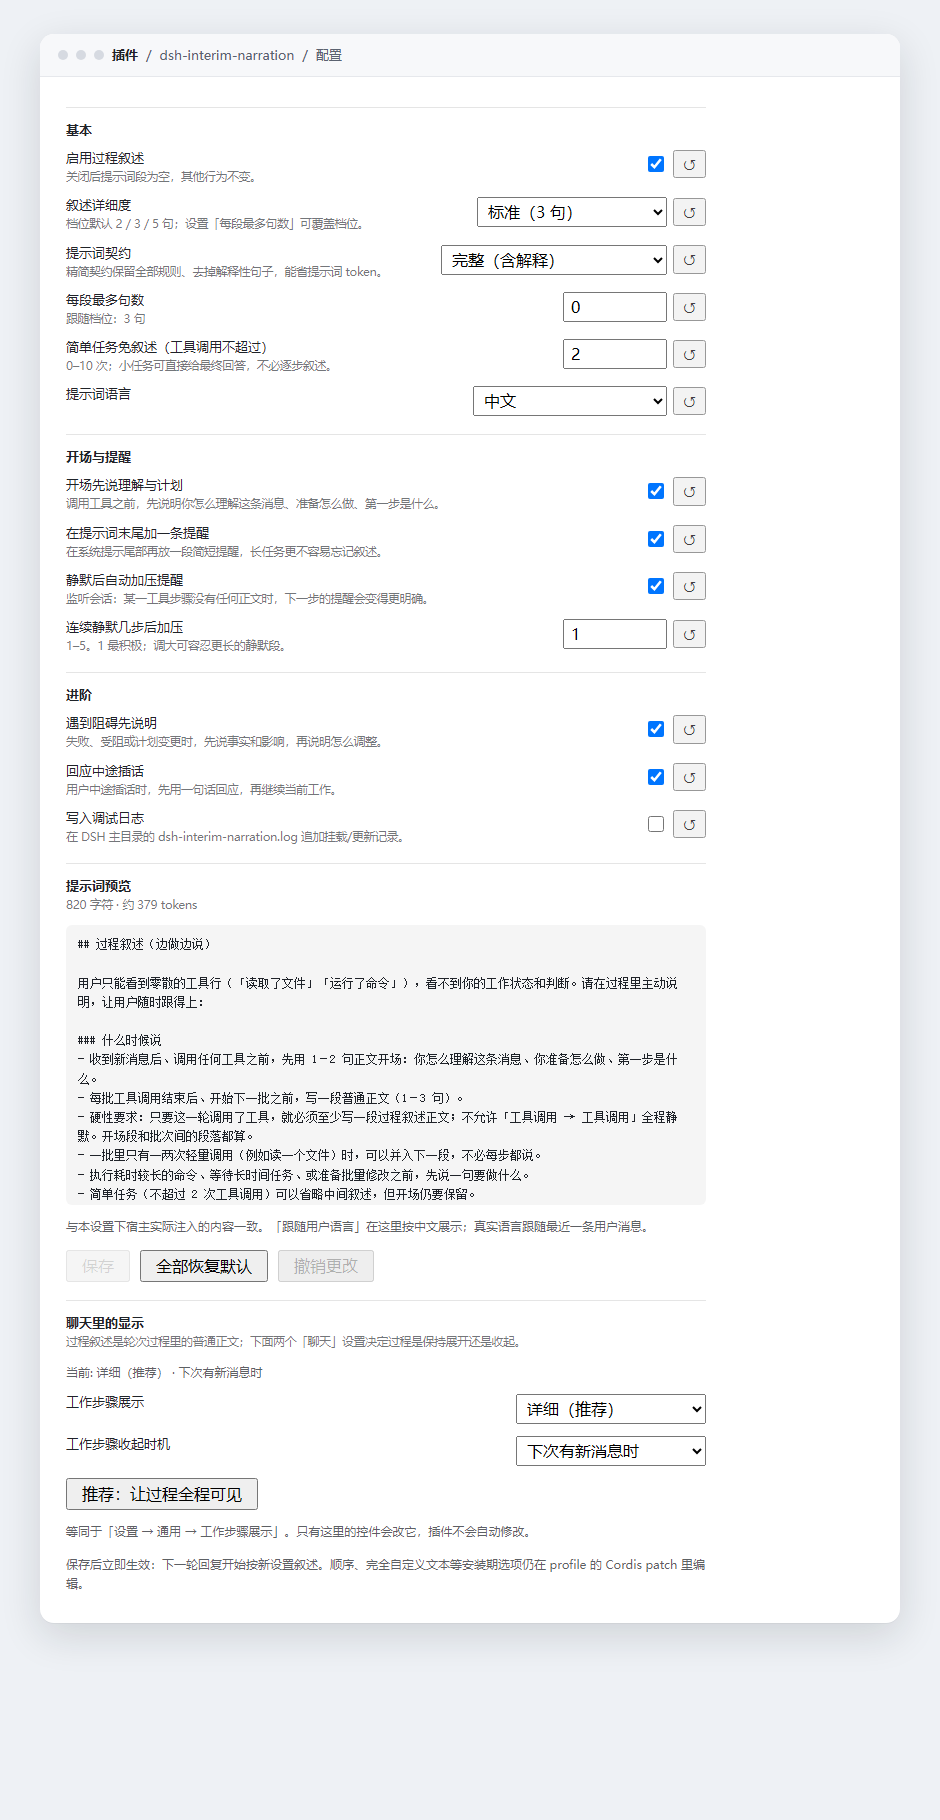
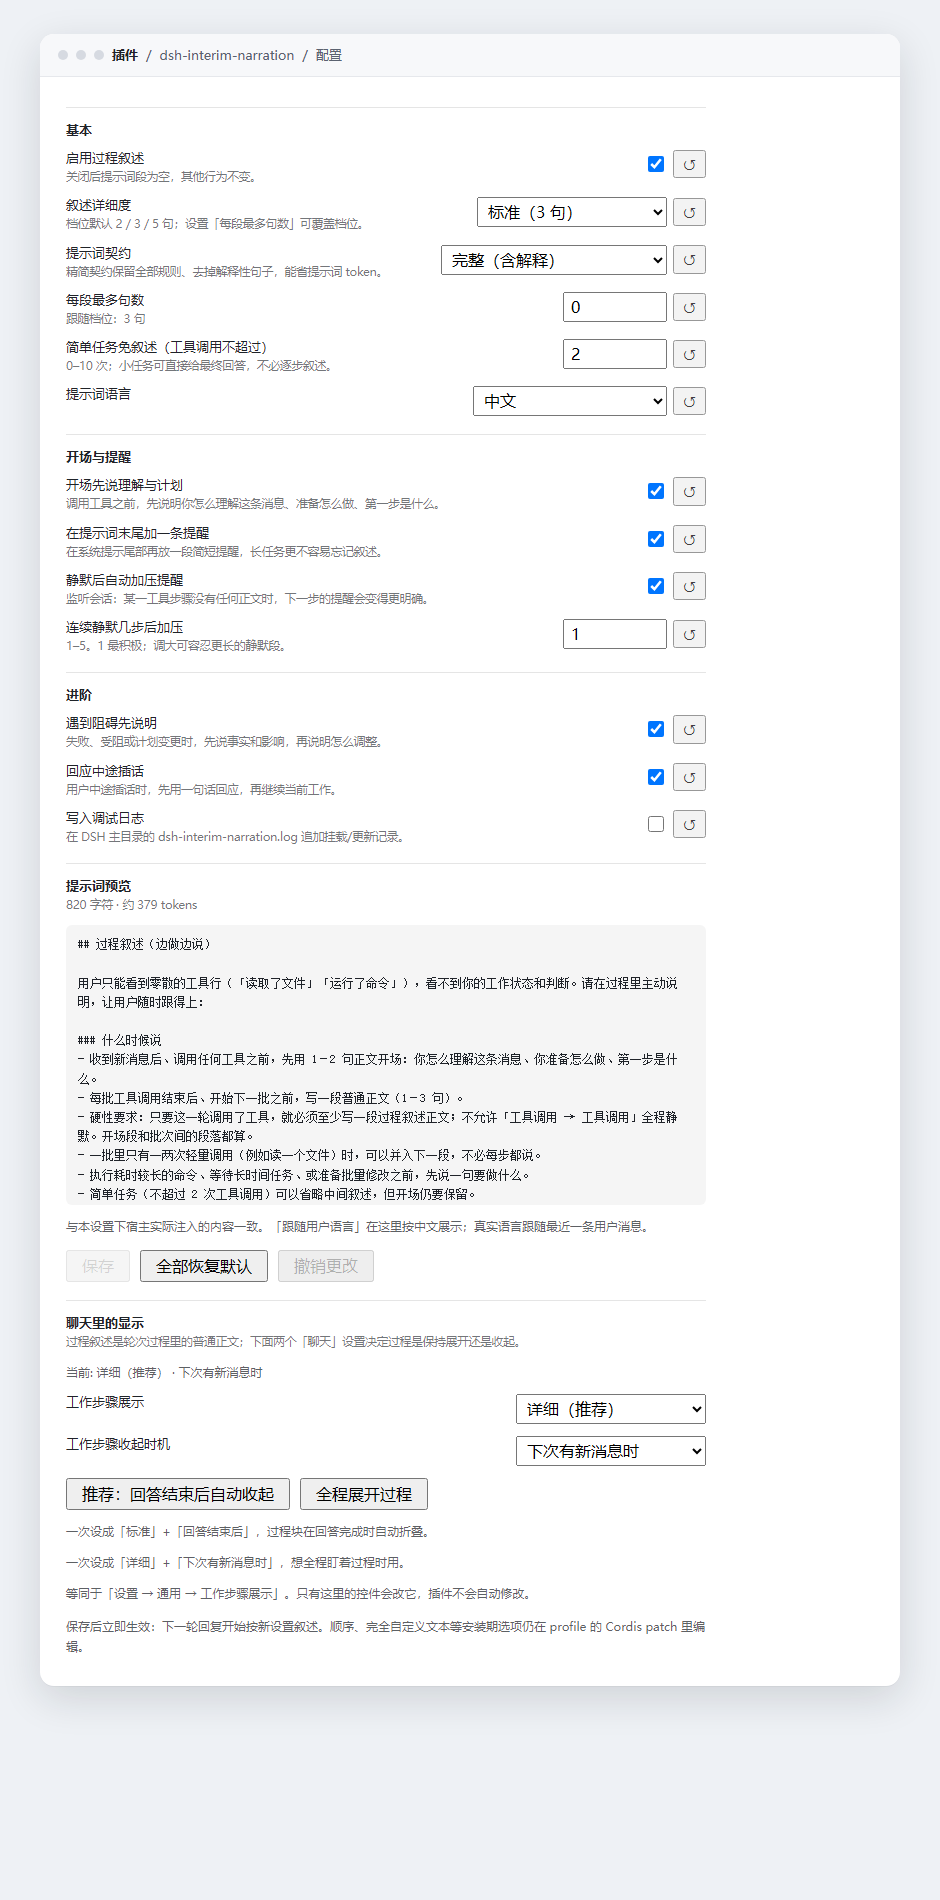
v0.9.1: two display presets, fold after the answer by default

diff --git a/lib/client.js b/lib/client.js
@@ -408,8 +408,10 @@ ${opening} Between tool-call batches, add 1–2 sentences about what just finish
       collapseTiming: 'Collapse work steps',
       collapseCompletion: 'After the answer finishes',
       collapseNextInput: 'On the next message',
-      presetVisible: 'Recommended: keep the process visible',
-      presetVisibleHint: 'Sets "Detailed" + "On the next message", the combination the narration is designed for.',
+      presetCollapse: 'Recommended: fold after the answer',
+      presetCollapseHint: 'Sets "Standard" + "After the answer finishes", so the process folds itself when the reply ends.',
+      presetExpand: 'Keep the process visible',
+      presetExpandHint: 'Sets "Detailed" + "On the next message", when you want to watch the whole process.',
       visibilitySaved: 'Display updated',
       visibilityFailed: 'The display setting was not accepted',
       visibilityUnavailable: 'The chat display settings are unavailable in this build.',
@@ -494,8 +496,10 @@ ${opening} Between tool-call batches, add 1–2 sentences about what just finish
       collapseTiming: '工作步骤收起时机',
       collapseCompletion: '回答结束后',
       collapseNextInput: '下次有新消息时',
-      presetVisible: '推荐：让过程全程可见',
-      presetVisibleHint: '一次设成「详细」+「下次有新消息时」，这是过程叙述最合适的组合。',
+      presetCollapse: '推荐：回答结束后自动收起',
+      presetCollapseHint: '一次设成「标准」+「回答结束后」，过程块在回答完成时自动折叠。',
+      presetExpand: '全程展开过程',
+      presetExpandHint: '一次设成「详细」+「下次有新消息时」，想全程盯着过程时用。',
       visibilitySaved: '显示设置已更新',
       visibilityFailed: '显示设置没有被接受',
       visibilityUnavailable: '当前版本读不到聊天显示设置。',
@@ -859,11 +863,15 @@ ${opening} Between tool-call batches, add 1–2 sentences about what just finish
         commitChat([{ op: 'set', path: [key], value }])
       }
 
-      const applyVisiblePreset = () =>
+      /** One button per display combination: folded after the answer by default. */
+      const applyDisplayPreset = (transcriptView, collapseTiming) =>
         commitChat([
-          { op: 'set', path: ['transcriptView'], value: 'detailed' },
-          { op: 'set', path: ['collapseTiming'], value: 'next-input' },
+          { op: 'set', path: ['transcriptView'], value: transcriptView },
+          { op: 'set', path: ['collapseTiming'], value: collapseTiming },
         ])
+
+      const applyCollapsePreset = () => applyDisplayPreset('standard', 'completion')
+      const applyExpandPreset = () => applyDisplayPreset('detailed', 'next-input')
 
       const save = async () => {
         if (disabled) return
@@ -1106,9 +1114,19 @@ ${opening} Between tool-call batches, add 1–2 sentences about what just finish
               type: 'button',
               style: chatDisabled ? S.buttonDisabled : S.button,
               disabled: chatDisabled || chatStatus?.kind === 'saving',
-              onClick: applyVisiblePreset,
+              onClick: applyCollapsePreset,
             },
-            t('presetVisible'),
+            t('presetCollapse'),
+          ),
+          react.createElement(
+            'button',
+            {
+              type: 'button',
+              style: chatDisabled ? S.buttonDisabled : S.button,
+              disabled: chatDisabled || chatStatus?.kind === 'saving',
+              onClick: applyExpandPreset,
+            },
+            t('presetExpand'),
           ),
           chatStatus?.kind === 'saving' ? react.createElement('span', { style: S.status }, t('saving')) : null,
           chatStatus?.kind === 'saved' ? react.createElement('span', { style: S.status }, t('visibilitySaved')) : null,
@@ -1116,6 +1134,8 @@ ${opening} Between tool-call batches, add 1–2 sentences about what just finish
             ? react.createElement('span', { style: S.error }, `${t('visibilityFailed')}\n${chatStatus.message}`)
             : null,
         ),
+        react.createElement('div', { style: S.note }, t('presetCollapseHint')),
+        react.createElement('div', { style: S.note }, t('presetExpandHint')),
         react.createElement('div', { style: S.note }, t('visibilityNote')),
       )
 

diff --git a/README.en.md b/README.en.md
@@ -68,7 +68,12 @@ The fields you'll actually touch:
 
 `order`, `text`, `extra` and `logFile` are install-time options — edit `cordis.patch.yml` in your profile for those.
 
-Just want to see it? The button at the bottom of the settings page ("recommended: keep the process visible") sets the chat to detailed + keep-open-until-next-message. It writes only when you click it, and never touches your settings on its own.
+Just want to see it? The settings page has two buttons at the bottom:
+
+- **Recommended: fold after the answer** sets standard + after-the-answer, so the process folds itself when the reply ends and only the final answer stays open;
+- **Keep the process visible** sets detailed + keep-open-until-next-message, for when you want to watch it work.
+
+Both write only when you click them, and never touch your settings on their own.
 
 ## Why can't I see it sometimes
 

diff --git a/README.md b/README.md
@@ -68,7 +68,12 @@ dsh plugin --profile desktop add link:C:/path/to/dsh-interim-narration
 
 `order`、`text`、`extra`、`logFile` 属于安装期参数，改它们要编辑 profile 里的 `cordis.patch.yml`。
 
-只想看效果的话，配置页底部有一个「推荐：让过程全程可见」按钮，会把聊天设成「详细 + 下次有新消息时」。它只在你点击时写入，不会偷偷改你的设置。
+只想看效果的话，配置页底部有两个按钮：
+
+- 「**推荐：回答结束后自动收起**」→ 设成「标准 + 回答结束后」，回答完成时过程块自动折叠，聊天里只剩最终回答；
+- 「**全程展开过程**」→ 设成「详细 + 下次有新消息时」，适合想盯全程的时候。
+
+两个按钮都只在你点击时写入，不会偷偷改你的设置。
 
 ## 为什么有时候看不到它说话
 

diff --git a/CHANGELOG.md b/CHANGELOG.md
@@ -1,5 +1,13 @@
 # Changelog
 
+## 0.9.1
+
+- **两个显示预设**：配置页「聊天里的显示」底部从单个「推荐：让过程全程可见」按钮改成两个按钮——
+  「推荐：回答结束后自动收起」设成「标准 + 回答结束后」，回答完成时过程块自动折叠，聊天里只留最终回答；
+  「全程展开过程」设成「详细 + 下次有新消息时」，适合想盯全程的时候。两个按钮都只在点击时写入，
+  不会自动改你的聊天设置。
+- 版本 0.9.1。
+
 ## 0.9.0
 
 - **可跑的端到端测试**：新增 `test/e2e.mjs`（`npm run test:e2e`）。它会自己发现本机 DSH CLI，
